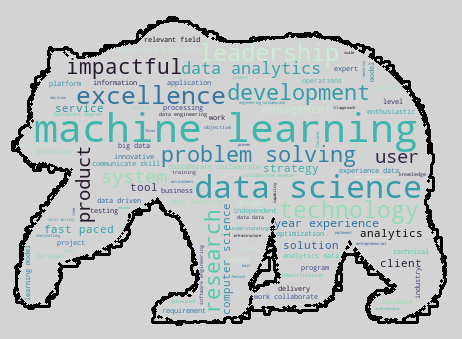
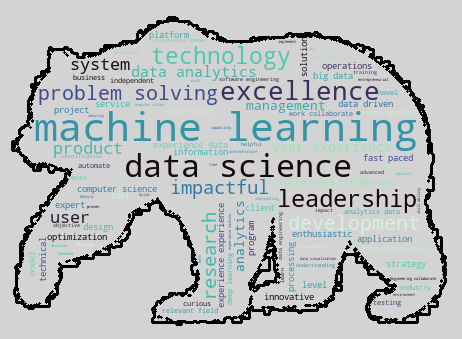
setting up to integrate bigrams into subtopic viz

Changed region(s): [[0.0303, 0.0885, 0.9394, 0.944], [0.0303, 0.8555, 0.0909, 0.885]]

diff --git a/nlp_main.py b/nlp_main.py
@@ -3927,7 +3927,7 @@ def visualize_subtopic(df, df_jobs_raw, terms_for_nlp, subtopic_list, unique_tit
 
 
 
-####### !!!!!!!! WORKING HERE: solve the bigram problem for subtopic lists    
+####### !!!!!!!! WORKING HERE: solve the bigram problem for subtopic lists  : at end, redact dummy bigrams from subtopic python list  
     # # generate bigrams from the full terms_for_nlp list
     # n_gram_count = 2
     # n_gram_range_start, n_gram_range_stop  = 0, 100
@@ -5260,7 +5260,7 @@ def nlp_skill_lists(additional_stopwords):
                        'pytorch', 'pyunit', 'rasa', 'requests', 'scipy', 'scrapy', 'sdk',
                        'seaborn', 'selenium', 'simpleitk', 'skimage', 'sklearn', 'sonnet', 'spacy', 
                        'sqlalchemy', 'statsmodels', 'tensorflow', 'textblob', 'theano', 'word2vec',
-                       'xgboost', 'zookeeper'] 
+                       'xgboost', 'zookeeper', 'collaborate work', 'work collaborate'] 
     
     subtopic_r = ['bioconductor', 'caret', 'dataexplorer', 'datatable', 'dplyr', 'e1071', 'esquisse' , 'ggplot',
                   'janitor', 'kernlab', 'knitr', 'lattice', 'lubridate', 'mboost', 'mlr3', 'plotly', 'purr',
